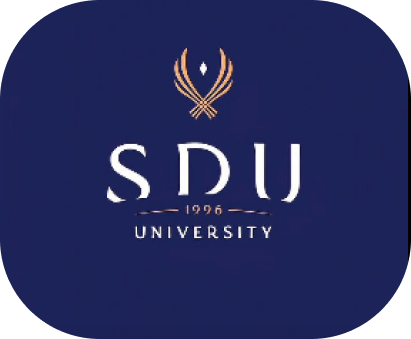
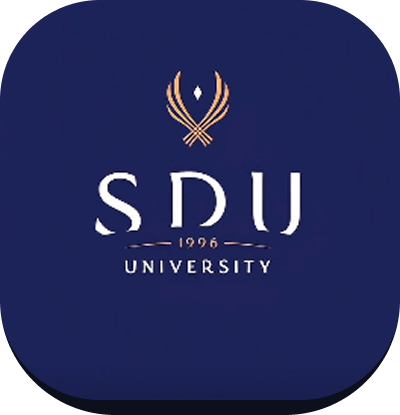
'morning'

diff --git a/src/index.scss b/src/index.scss
@@ -26,7 +26,38 @@ body{
   height: 100px;
   background: #e74c3c;
 }
+@keyframes bounce {
+  0%, 100% {
+    transform: translateY(0);
+    animation-timing-function: cubic-bezier(0.8, 0, 1, 1);
+  }
+  50% {
+    transform: translateY(-40px);
+    animation-timing-function: cubic-bezier(0, 0, 0.2, 1);
+  }
+}
 
+.bouncing-element {
+  width: 50px;
+  height: 50px;
+  background-color: #3498db;
+  border-radius: 50%;
+  
+}
+
+.aboutuss{
+  width: 100%;
+  height: 97vh;
+  display: flex;
+  justify-content: center;
+  align-items: center;
+  backdrop-filter:blur(5px);
+  img{
+    background-color: #004AAD;
+    border-radius:25px;
+    animation: bounce 1.25s infinite;
+  }
+}
 button {
   margin-top: -20px;
   width: 350px;
@@ -181,6 +212,8 @@ header{
   div{
     display: flex;
     gap:78px;
+    justify-content: center;
+    align-items: center ;
   }
 
 }
@@ -338,6 +371,7 @@ header{
         font-weight: 300;
         line-height: 3;
       }
+      
     }
   }
   aside{

diff --git a/src/Home.js b/src/Home.js
@@ -81,9 +81,24 @@ const Home = () => {
 				<h1 ref={events1}>Events</h1>
 				<div ref={events2}>
 					<img src='img/events/arrowl.svg' alt='Slide 2' />
-					<img src='img/events/events2.png' alt='Slide 2' />
-					<img src='img/events/events2.png' alt='Slide 2' />
-					<img src='img/events/events2.png' alt='Slide 2' />
+					<img
+						width={330}
+						height={330}
+						src='img/events/events2.png'
+						alt='Slide 2'
+					/>
+					<img
+						width={400}
+						height={400}
+						src='img/events/events2.png'
+						alt='Slide 2'
+					/>
+					<img
+						width={330}
+						height={330}
+						src='img/events/events2.png'
+						alt='Slide 2'
+					/>
 					<img src='img/events/arrowr.svg' alt='Slide 2' />
 				</div>
 				<button ref={events3}>

diff --git a/src/AboutUs.js b/src/AboutUs.js
@@ -1,7 +1,11 @@
 import React from 'react'
 
 const AboutUs = () => {
-	return <h1>About Us Page</h1>
+	return (
+		<div className='aboutuss'>
+			<img width={170} height={150} src='img/arqar.png' />
+		</div>
+	)
 }
 
 export default AboutUs
